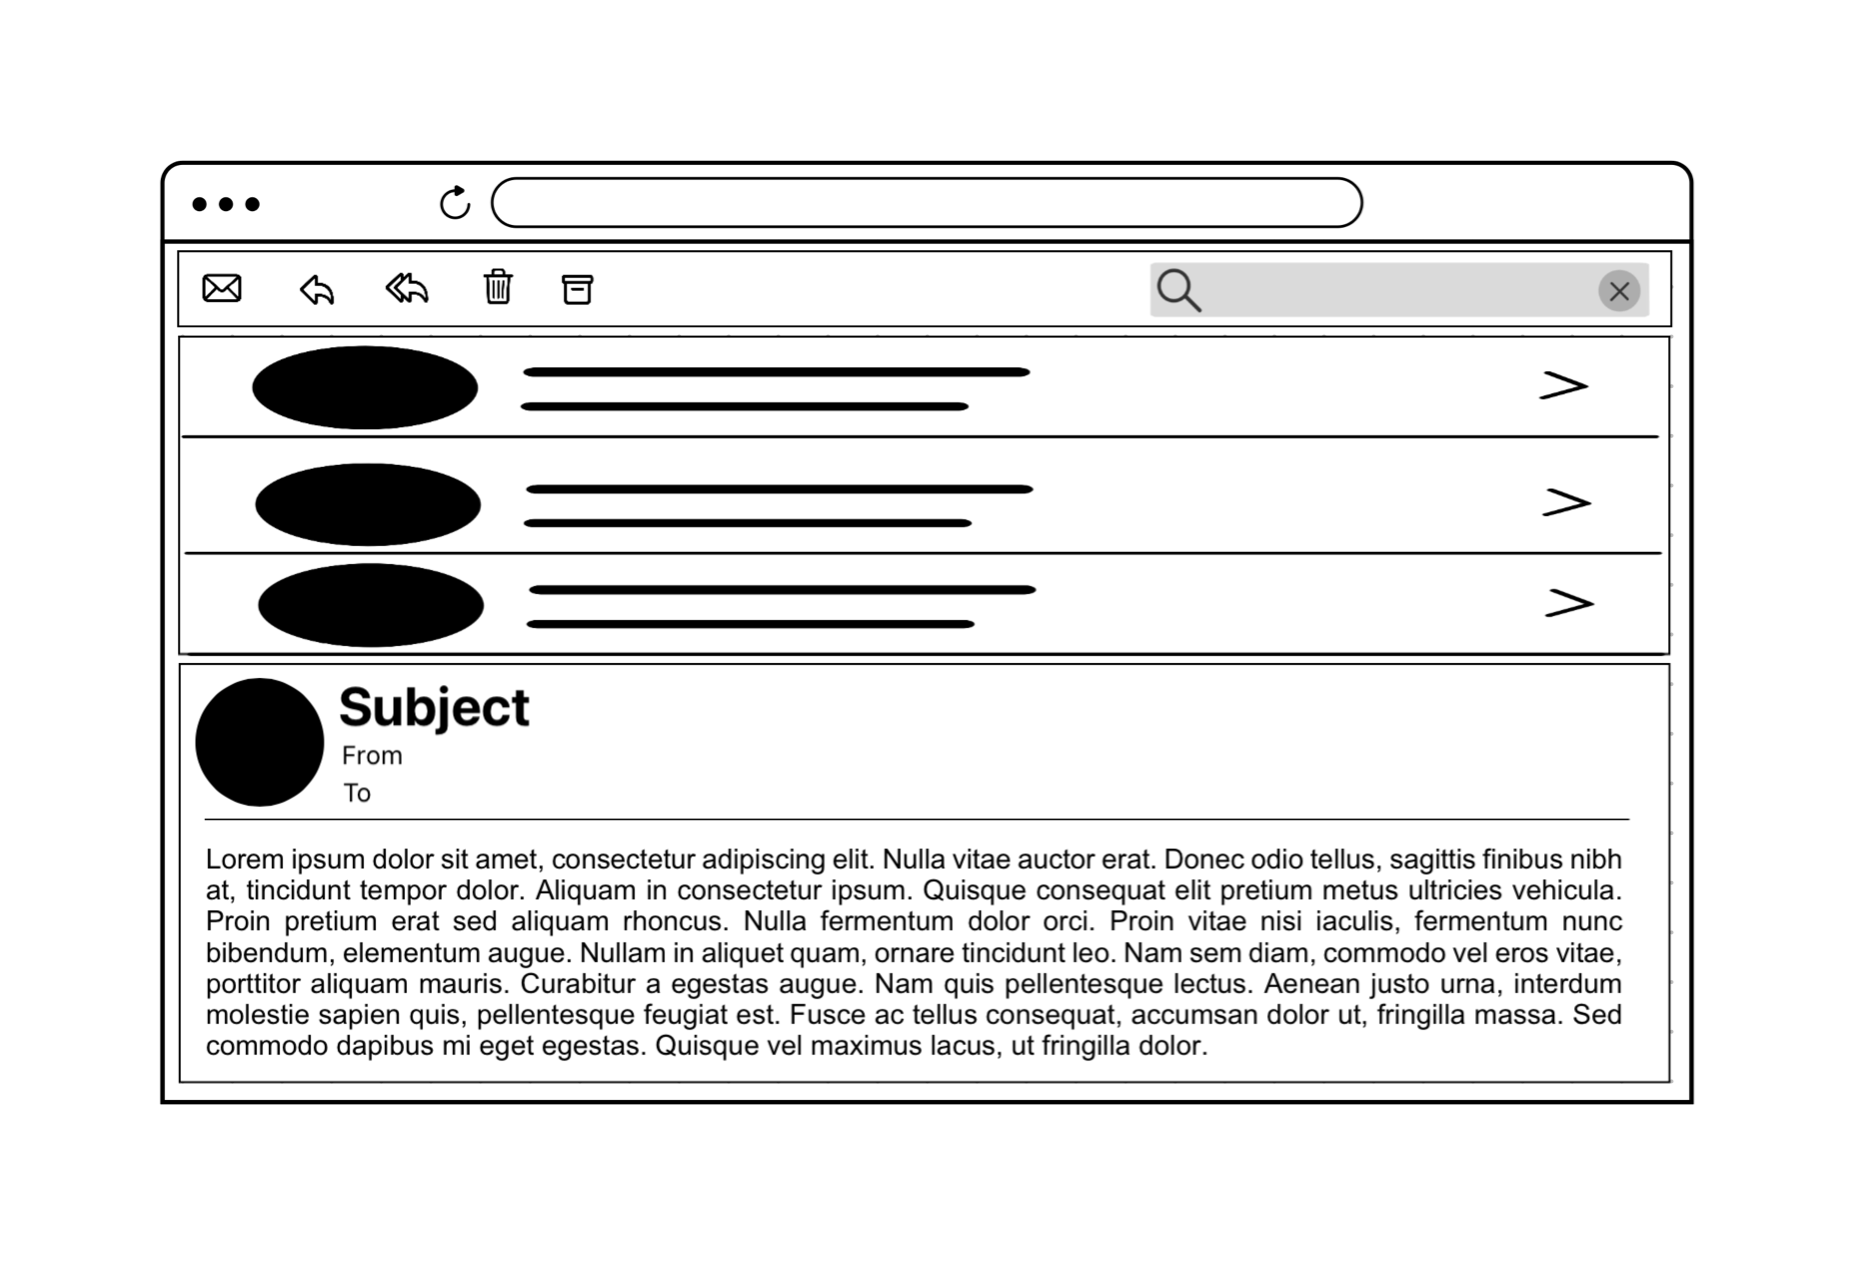
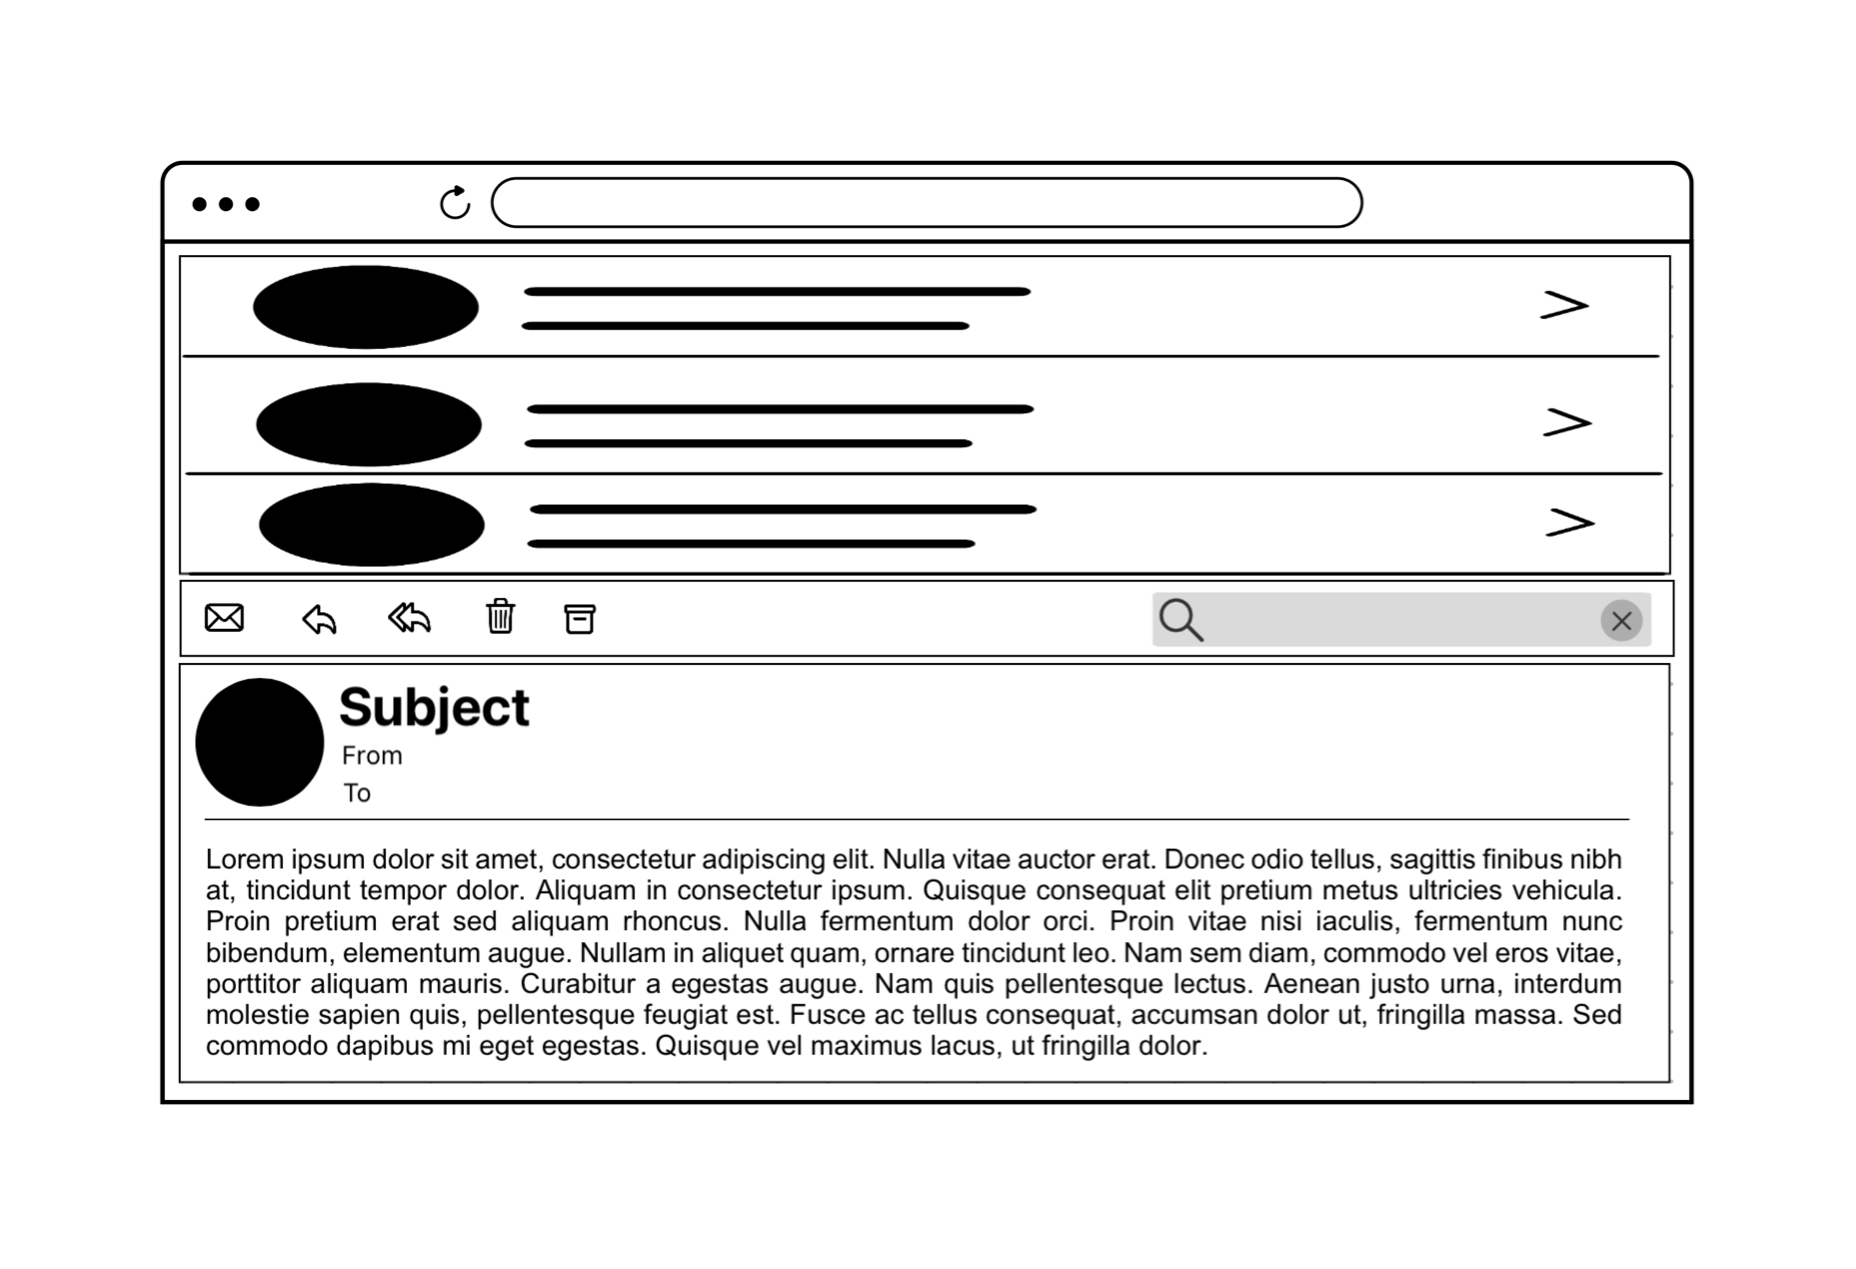
Adds more wireframes - Adds a third design - Updates the other designs to makes sense on the transitions - Adds a flow diagram for the wireframes

Changed region(s): [[0.0938, 0.1844, 0.9062, 0.5225]]

diff --git a/CHANGELOG.md b/CHANGELOG.md
@@ -5,6 +5,10 @@
   - Initialize git project
 - 07/28/2025
   - 1:00pm, Worked on the wireframes
+- 07/29/2025
+  - 10:30am, Worked on 1 more design of wireframes
+  - Updated designs to make sense on the flow
+  - Created a flow diagram for the wireframes
 
 ## Example:
 
